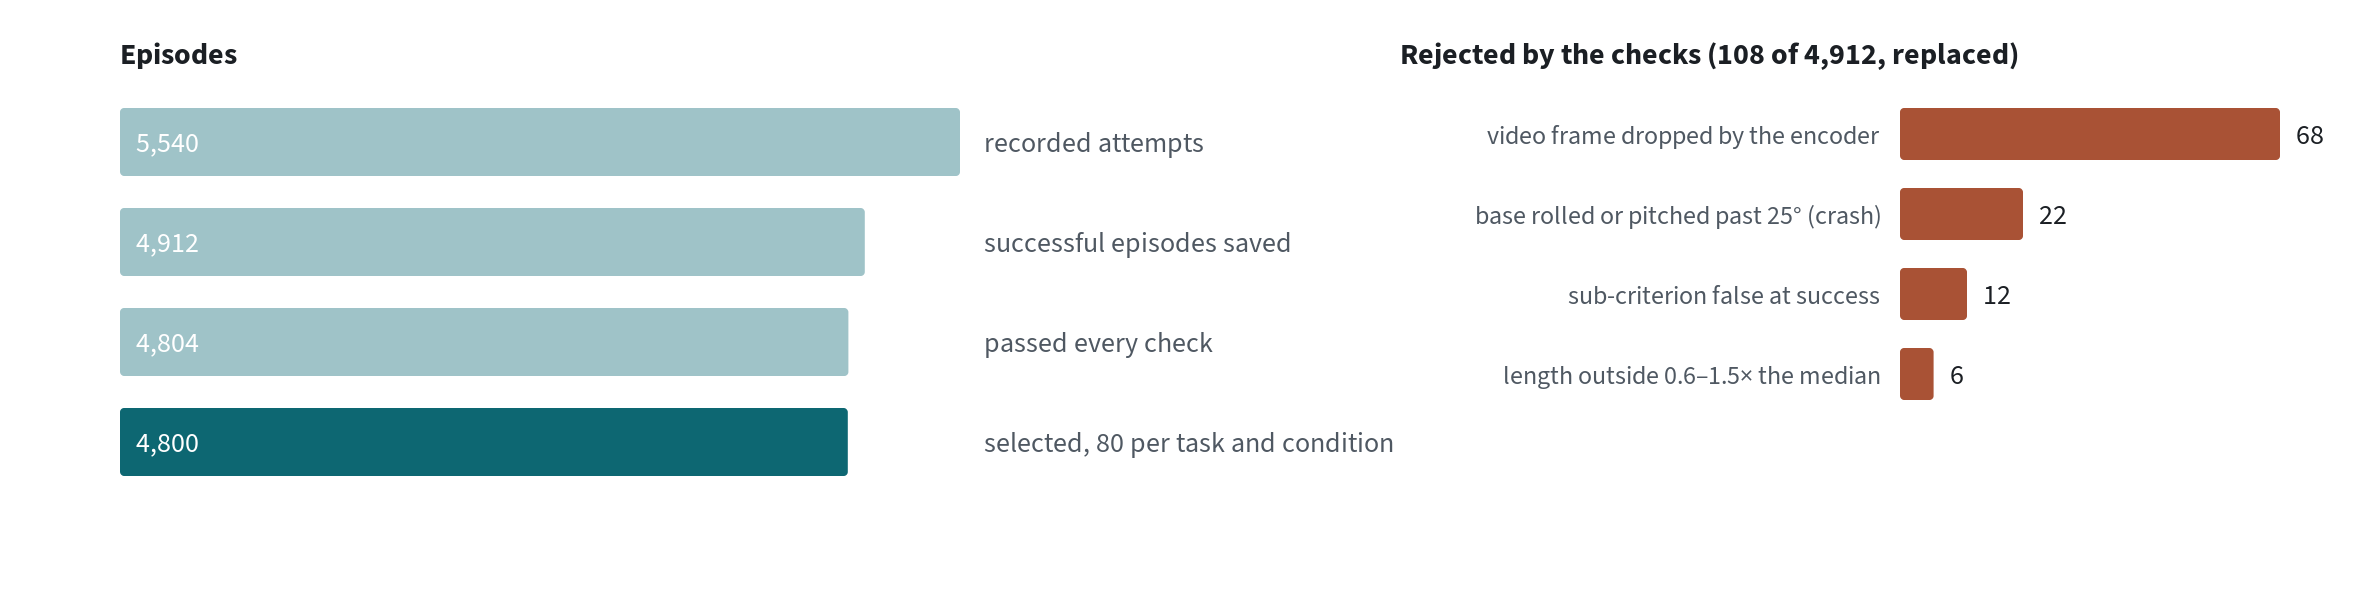
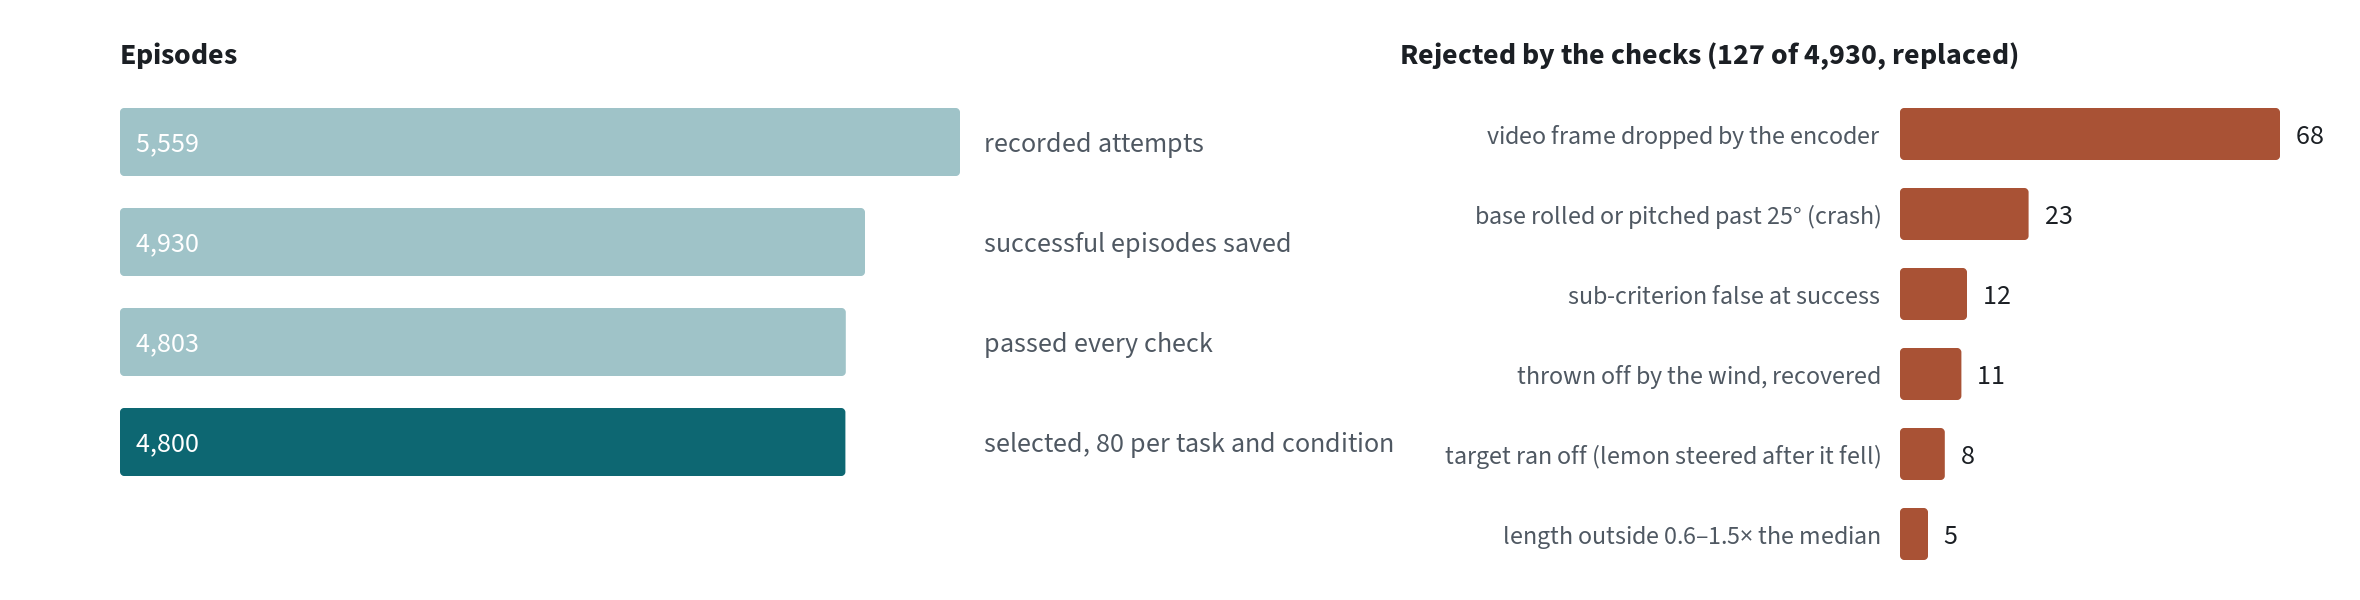
Part 3 numbers for the final data: two label checks, 19 episodes replaced
5,559 attempts, 127 rejected for six reasons (new: 8 runaway labels, the default-condition lemon target steered after
the lemon had fallen; 11 lost control, drones the 20 % wind threw off before they recovered), 4,800 selected. New
"Plausible labels" check; "Level base" is 25 degrees in every task. Success rates: default LemonHarvesting 75 %,
wind20 PegInHole 90 %, wind20 PullLever 87 %. Sizes: 294 GB export, 313 GB of data in all. Verification figure
regenerated.

Claude-Session: https://claude.ai/code/session_016huv2juaC9gHy9xHxT9joW

diff --git a/index.html b/index.html
@@ -395,7 +395,7 @@
         <div class="stats">
           <div class="stat"><b>4,800</b><span>episodes: 12 tasks × 5 conditions × 80</span></div>
           <div class="stat"><b>1.33 M</b><span>image frames at 20 Hz, two cameras</span></div>
-          <div class="stat"><b>19 GB · 297 GB</b><span>raw (AV1 video) · π0.5 export (PNG)</span></div>
+          <div class="stat"><b>19 GB · 294 GB</b><span>raw (AV1 video) · π0.5 export (PNG)</span></div>
         </div>
       </div>
     </section>
@@ -443,7 +443,7 @@
               <tr><th scope="row">Noise</th><td>smooth drift on the executed target, σ = 5 mm and 0.025 rad, knot every 0.5 s; labels unperturbed</td></tr>
               <tr><th scope="row">Observations</th><td>end-effector and body cameras, 384 × 384 RGB at 20 Hz; 35-D state (EE pose, gripper, arm joints, base pose, EE and base velocities, joint velocities) at 20 and 120 Hz</td></tr>
               <tr><th scope="row">Actions</th><td>8-D absolute EE target (position, quaternion, gripper); the executed, noisy target is stored alongside</td></tr>
-              <tr><th scope="row">Throughput</th><td>two Isaac Sim processes with 4 environments each on one 16 GB GPU; 5,540 attempts in about 22 hours, including the re-recordings of OpenDoor, RotateValve and TossBall with their rewritten specialists</td></tr>
+              <tr><th scope="row">Throughput</th><td>two Isaac Sim processes with 4 environments each on one 16 GB GPU; 5,559 attempts in about 22 hours, including the re-recordings of OpenDoor, RotateValve and TossBall with their rewritten specialists and the replacements for rejected episodes</td></tr>
             </tbody>
           </table>
         </div>
@@ -458,15 +458,16 @@
           <li><b>Success.</b> The task's success check fired and every sub-criterion was true at termination (a lemon that reached the bin without a registered grasp is rejected).</li>
           <li><b>Integrity.</b> The 120 Hz episode has exactly the logged number of steps, the 20 Hz episode one frame per grid step, every video segment holds exactly its frames (LeRobot's streaming encoder silently drops a frame when its queue is full; the queue was enlarged after this was found), and the first, middle and last frames decode and differ.</li>
           <li><b>Clean start.</b> The robot does not move by itself in the first 0.2 s. In the first recording about a quarter of the OpenDoor episodes failed this: AM-Bench's IK keeps the base 0.875 m behind the door leaf, which for a door spawned close to the robot lies behind its reset position, so the base was pulled back on the first step. The rewritten door specialist sets its own base limit, and the transient no longer occurs.</li>
-          <li><b>Level base.</b> The base never rolls or pitches beyond 25° (70° for TossBall, whose lob tilts it on purpose). A drone that flips or falls into the object is not a demonstration even if the object still passed the success check; 23 such episodes were replaced.</li>
+          <li><b>Level base.</b> The base never rolls or pitches beyond 25°, in every task. A drone that flips or falls into the object is not a demonstration even if the object still passed the success check; 23 such episodes were replaced.</li>
+          <li><b>Plausible labels.</b> The target never runs more than 0.8 m past the usual extremes of its task–condition pair, and the end effector never gets more than 0.6 m farther from its target than usual. The first rule caught 8 default-condition lemon episodes whose target flew 2–5 m off after the lemon had slipped into the bin (the specialist kept steering it; now fixed), the second 11 episodes in 20 % wind in which the drone was thrown down to about 0.3 m above the floor before it recovered.</li>
           <li><b>Length.</b> Within 0.6–1.5× the median of its task–condition pair, which excludes late or accidental successes.</li>
           <li><b>Metadata.</b> The prompt, the disturbance switches and the wind force match the condition; the noise spread matches the setting.</li>
         </ul>
       </div>
       <div class="wrap wide">
         <figure class="figure">
-          <a href="assets/dataset/figures/verification.png" target="_blank" rel="noopener" title="Open the full-size figure"><img src="assets/dataset/figures/verification.png" width="2360" height="600" alt="Funnel from 5,540 attempts to 4,800 selected episodes, and the counts of the four rejection reasons."></a>
-          <figcaption><b>Figure 3.</b> Left: recorded attempts, successes saved by the recorder, episodes that passed every check, and the final selection. Right: why the 108 rejected successes were excluded.</figcaption>
+          <a href="assets/dataset/figures/verification.png" target="_blank" rel="noopener" title="Open the full-size figure"><img src="assets/dataset/figures/verification.png" width="2360" height="600" alt="Funnel from 5,559 attempts to 4,800 selected episodes, and the counts of the six rejection reasons."></a>
+          <figcaption><b>Figure 3.</b> Left: recorded attempts, successes saved by the recorder, episodes that passed every check, and the final selection. Right: why the 127 rejected successes were excluded.</figcaption>
         </figure>
       </div>
     </section>
@@ -480,16 +481,16 @@
             <thead><tr><th scope="col">Task</th><th scope="col">Default</th><th scope="col">Aero</th><th scope="col">Wind 5 %</th><th scope="col">Wind 10 %</th><th scope="col">Wind 20 %</th></tr></thead>
             <tbody>
               <tr><th scope="row">Press button</th><td>100</td><td>100</td><td>99</td><td>99</td><td>88</td></tr>
-              <tr><th scope="row">Peg in hole</th><td>88</td><td>100</td><td>98</td><td>98</td><td>91</td></tr>
+              <tr><th scope="row">Peg in hole</th><td>88</td><td>100</td><td>98</td><td>98</td><td>90</td></tr>
               <tr><th scope="row">Inspect surface (NDT)</th><td>100</td><td>100</td><td>100</td><td>100</td><td>100</td></tr>
               <tr><th scope="row">Wipe window</th><td>100</td><td>100</td><td>99</td><td>99</td><td>58</td></tr>
               <tr><th scope="row">Cabinet pick and place</th><td>100</td><td>100</td><td>100</td><td>100</td><td>61</td></tr>
               <tr><th scope="row">Frame assembly</th><td>89</td><td>88</td><td>94</td><td>96</td><td>82</td></tr>
-              <tr><th scope="row">Harvest lemon</th><td>74</td><td>63</td><td>61</td><td>72</td><td>52</td></tr>
+              <tr><th scope="row">Harvest lemon</th><td>75</td><td>63</td><td>61</td><td>72</td><td>52</td></tr>
               <tr><th scope="row">Toss ball</th><td>100</td><td>100</td><td>100</td><td>100</td><td>100</td></tr>
               <tr><th scope="row">Rotate valve</th><td>98</td><td>99</td><td>99</td><td>99</td><td>94</td></tr>
               <tr><th scope="row">Push slider</th><td>100</td><td>92</td><td>83</td><td>58</td><td>56</td></tr>
-              <tr><th scope="row">Pull lever</th><td>100</td><td>98</td><td>94</td><td>91</td><td>86</td></tr>
+              <tr><th scope="row">Pull lever</th><td>100</td><td>98</td><td>94</td><td>91</td><td>87</td></tr>
               <tr><th scope="row">Open door</th><td>100</td><td>100</td><td>100</td><td>100</td><td>100</td></tr>
             </tbody>
           </table>
@@ -525,7 +526,7 @@
         <ul class="points">
           <li><a href="https://github.com/MingtianTan/Aerial_Manipulation_Code/tree/main/pipeline/datagen"><code>pipeline/datagen/</code></a>: the batch recorder with GPU slot locks and re-recording, the per-episode verifier and selection, the OpenPI export and its check, and the one-command finish script.</li>
           <li><a href="https://github.com/MingtianTan/Aerial_Manipulation_Code/blob/main/ambench/DATAGEN_CHANGES.diff"><code>ambench/DATAGEN_CHANGES.diff</code></a>: the recorder and exporter changes on top of AM-Bench (video storage, 20 Hz images with a 120 Hz companion, clean labels, smooth noise, one-pass export).</li>
-          <li><a href="https://github.com/MingtianTan/Aerial_Manipulation_Code/blob/main/docs/training-data.md"><code>docs/training-data.md</code></a>: layout, features, rules and the full numbers. The data itself (303 GB) is not in the repository.</li>
+          <li><a href="https://github.com/MingtianTan/Aerial_Manipulation_Code/blob/main/docs/training-data.md"><code>docs/training-data.md</code></a>: layout, features, rules and the full numbers. The data itself (313 GB) is not in the repository.</li>
         </ul>
       </div>
     </section>
